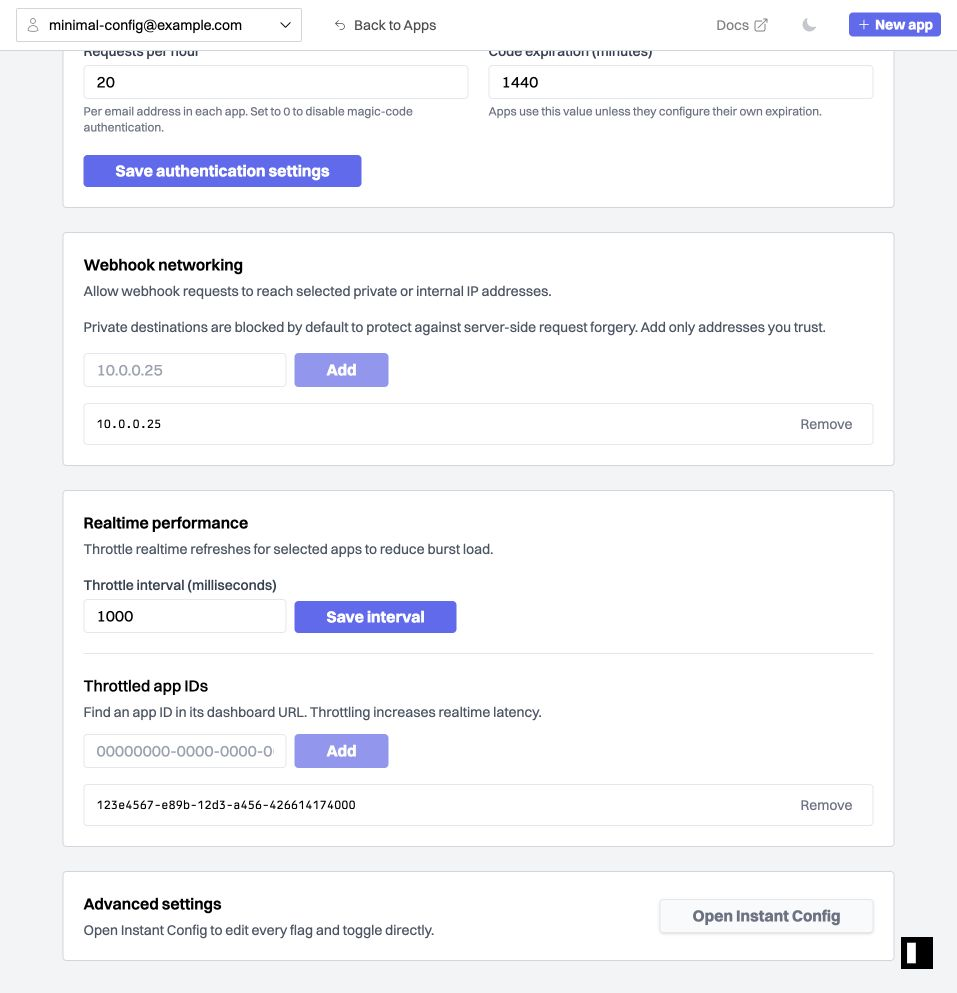
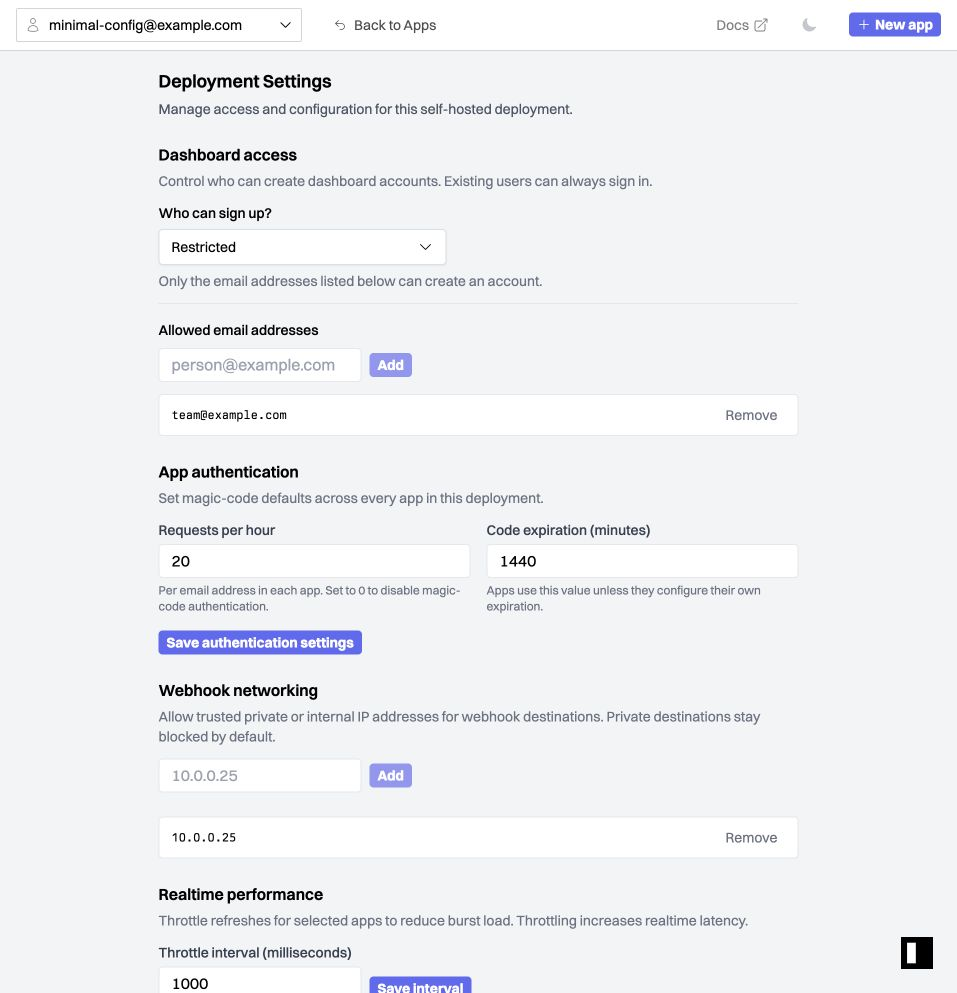
Condense deployment settings layout

diff --git a/client/www/pages/dash/deployment-settings.tsx b/client/www/pages/dash/deployment-settings.tsx
@@ -8,8 +8,10 @@ import { Button, FullscreenLoading, Select, TextInput } from '@/components/ui';
 import config from '@/lib/config';
 import { errorToast, successToast } from '@/lib/toast';
 import { InstantApp } from '@/lib/types';
+import { ChevronRightIcon } from '@heroicons/react/24/outline';
 import { id, init } from '@instantdb/react';
 import Head from 'next/head';
+import Link from 'next/link';
 import { ReactNode, useEffect, useState } from 'react';
 import { validate as isUuid } from 'uuid';
 import { NextPageWithLayout } from '../_app';
@@ -135,7 +137,7 @@ function isLiteralIpAddress(value: string) {
   }
 }
 
-function SettingsCard({
+function SettingsSection({
   title,
   description,
   children,
@@ -145,10 +147,10 @@ function SettingsCard({
   children: ReactNode;
 }) {
   return (
-    <section className="rounded-sm border border-gray-300 bg-white p-5 dark:border-neutral-700 dark:bg-neutral-800">
-      <div className="mb-4">
+    <section className="flex flex-col gap-3">
+      <div className="flex flex-col gap-1">
         <h2 className="font-semibold">{title}</h2>
-        <p className="mt-1 text-sm text-gray-600 dark:text-neutral-400">
+        <p className="text-sm text-gray-500 dark:text-neutral-400">
           {description}
         </p>
       </div>
@@ -179,7 +181,7 @@ function StringListEditor({
   return (
     <>
       <form
-        className="flex max-w-xl gap-2"
+        className="flex max-w-xl items-center gap-2"
         onSubmit={(event) => {
           event.preventDefault();
           onAdd();
@@ -191,11 +193,11 @@ function StringListEditor({
           value={value}
           onChange={onChange}
         />
-        <Button type="submit" disabled={disabled || !value.trim()}>
+        <Button type="submit" size="mini" disabled={disabled || !value.trim()}>
           Add
         </Button>
       </form>
-      <div className="mt-4 divide-y divide-gray-200 rounded-sm border border-gray-200 dark:divide-neutral-700 dark:border-neutral-700">
+      <div className="mt-3 divide-y divide-gray-200 overflow-hidden rounded-sm border border-gray-200 bg-white dark:divide-neutral-700 dark:border-neutral-700 dark:bg-neutral-800">
         {items.length ? (
           items.map((item) => (
             <div
@@ -214,7 +216,7 @@ function StringListEditor({
             </div>
           ))
         ) : (
-          <div className="px-3 py-4 text-sm text-gray-500">{emptyMessage}</div>
+          <div className="px-3 py-3 text-sm text-gray-500">{emptyMessage}</div>
         )}
       </div>
     </>
@@ -536,33 +538,37 @@ function InstantConfigSettings({ app }: { app: InstantApp }) {
   };
 
   return (
-    <div className="space-y-6">
-      <SettingsCard
+    <div className="flex flex-col gap-6">
+      <SettingsSection
         title="Dashboard access"
         description="Control who can create dashboard accounts. Existing users can always sign in."
       >
-        <label className="block text-sm font-medium">Who can sign up?</label>
-        <Select
-          className="mt-2 w-full md:w-72"
-          disabled={saving}
-          value={mode}
-          options={signupModeOptions.map(({ label, value }) => ({
-            label,
-            value,
-          }))}
-          onChange={(option) => {
-            if (option) {
-              void updateMode(option.value);
-            }
-          }}
-        />
-        <p className="mt-2 text-sm text-gray-600 dark:text-neutral-400">
-          {selectedMode?.description}
-        </p>
+        <div>
+          <label className="block text-sm font-medium">Who can sign up?</label>
+          <Select
+            className="mt-1.5 w-full md:w-72"
+            disabled={saving}
+            value={mode}
+            options={signupModeOptions.map(({ label, value }) => ({
+              label,
+              value,
+            }))}
+            onChange={(option) => {
+              if (option) {
+                void updateMode(option.value);
+              }
+            }}
+          />
+          <p className="mt-1.5 text-sm text-gray-500 dark:text-neutral-400">
+            {selectedMode?.description}
+          </p>
+        </div>
         {mode === 'restricted' && (
-          <div className="mt-5 border-t border-gray-200 pt-5 dark:border-neutral-700">
-            <h3 className="font-medium">Allowed email addresses</h3>
-            <div className="mt-3">
+          <div className="border-t border-gray-200 pt-4 dark:border-neutral-700">
+            <h3 className="mb-2 text-sm font-medium">
+              Allowed email addresses
+            </h3>
+            <div>
               <StringListEditor
                 items={allowedEmails}
                 value={newEmail}
@@ -576,14 +582,14 @@ function InstantConfigSettings({ app }: { app: InstantApp }) {
             </div>
           </div>
         )}
-      </SettingsCard>
+      </SettingsSection>
 
-      <SettingsCard
+      <SettingsSection
         title="App authentication"
-        description="Set defaults for magic-code authentication in every app."
+        description="Set magic-code defaults across every app in this deployment."
       >
         <form
-          className="grid gap-5 md:grid-cols-2"
+          className="grid gap-4 md:grid-cols-2"
           onSubmit={(event) => {
             event.preventDefault();
             void saveAuthenticationSettings();
@@ -615,21 +621,17 @@ function InstantConfigSettings({ app }: { app: InstantApp }) {
             </p>
           </div>
           <div className="md:col-span-2">
-            <Button type="submit" disabled={saving}>
+            <Button type="submit" size="mini" disabled={saving}>
               Save authentication settings
             </Button>
           </div>
         </form>
-      </SettingsCard>
+      </SettingsSection>
 
-      <SettingsCard
+      <SettingsSection
         title="Webhook networking"
-        description="Allow webhook requests to reach selected private or internal IP addresses."
+        description="Allow trusted private or internal IP addresses for webhook destinations. Private destinations stay blocked by default."
       >
-        <p className="mb-4 text-sm text-gray-600 dark:text-neutral-400">
-          Private destinations are blocked by default to protect against
-          server-side request forgery. Add only addresses you trust.
-        </p>
         <StringListEditor
           items={webhookPrivateIps}
           value={newWebhookIp}
@@ -640,14 +642,14 @@ function InstantConfigSettings({ app }: { app: InstantApp }) {
           onAdd={() => void addWebhookIp()}
           onRemove={(ipAddress) => void removeWebhookIp(ipAddress)}
         />
-      </SettingsCard>
+      </SettingsSection>
 
-      <SettingsCard
+      <SettingsSection
         title="Realtime performance"
-        description="Throttle realtime refreshes for selected apps to reduce burst load."
+        description="Throttle refreshes for selected apps to reduce burst load. Throttling increases realtime latency."
       >
         <form
-          className="flex max-w-xl items-end gap-2"
+          className="flex max-w-md items-end gap-2"
           onSubmit={(event) => {
             event.preventDefault();
             void saveRefreshThrottle();
@@ -661,15 +663,14 @@ function InstantConfigSettings({ app }: { app: InstantApp }) {
             disabled={saving}
             onChange={setRefreshThrottleInput}
           />
-          <Button type="submit" disabled={saving}>
+          <Button type="submit" size="mini" disabled={saving}>
             Save interval
           </Button>
         </form>
-        <div className="mt-5 border-t border-gray-200 pt-5 dark:border-neutral-700">
-          <h3 className="font-medium">Throttled app IDs</h3>
-          <p className="mt-1 mb-3 text-sm text-gray-600 dark:text-neutral-400">
-            Find an app ID in its dashboard URL. Throttling increases realtime
-            latency.
+        <div className="border-t border-gray-200 pt-4 dark:border-neutral-700">
+          <h3 className="text-sm font-medium">Throttled app IDs</h3>
+          <p className="mt-1 mb-2 text-sm text-gray-500 dark:text-neutral-400">
+            Find an app ID in its dashboard URL.
           </p>
           <StringListEditor
             items={refreshThrottledApps}
@@ -682,23 +683,23 @@ function InstantConfigSettings({ app }: { app: InstantApp }) {
             onRemove={(appId) => void removeThrottledApp(appId)}
           />
         </div>
-      </SettingsCard>
+      </SettingsSection>
 
-      <section className="flex items-center justify-between gap-4 rounded-sm border border-gray-300 bg-white p-5 dark:border-neutral-700 dark:bg-neutral-800">
-        <div>
-          <h2 className="font-semibold">Advanced settings</h2>
-          <p className="mt-1 text-sm text-gray-600 dark:text-neutral-400">
+      <Link
+        href={`/dash?app=${app.id}&t=explorer&s=main`}
+        className="flex items-center justify-between gap-3 rounded-sm border border-gray-200 bg-white px-4 py-3 hover:bg-gray-50 dark:border-neutral-700 dark:bg-neutral-800 dark:hover:bg-neutral-700"
+      >
+        <div className="min-w-0">
+          <h2 className="text-sm font-medium">Advanced settings</h2>
+          <p className="mt-0.5 truncate text-sm text-gray-500 dark:text-neutral-400">
             Open Instant Config to edit every flag and toggle directly.
           </p>
         </div>
-        <Button
-          type="link"
-          variant="secondary"
-          href={`/dash?app=${app.id}&t=explorer&s=main`}
-        >
-          Open Instant Config
-        </Button>
-      </section>
+        <ChevronRightIcon
+          className="size-4 shrink-0 text-gray-300 dark:text-neutral-600"
+          aria-hidden="true"
+        />
+      </Link>
     </div>
   );
 }
@@ -740,7 +741,7 @@ const DeploymentSettingsPage: NextPageWithLayout = () => {
   return (
     <>
       <BackToAppsButton />
-      <main className="mx-auto w-full overflow-y-auto px-8 py-8 md:max-w-4xl">
+      <main className="mx-auto w-full max-w-2xl overflow-y-auto p-4">
         <div className="mb-6">
           <h1 className="text-lg font-semibold">Deployment Settings</h1>
           <p className="mt-1 text-sm text-gray-600 dark:text-neutral-400">
